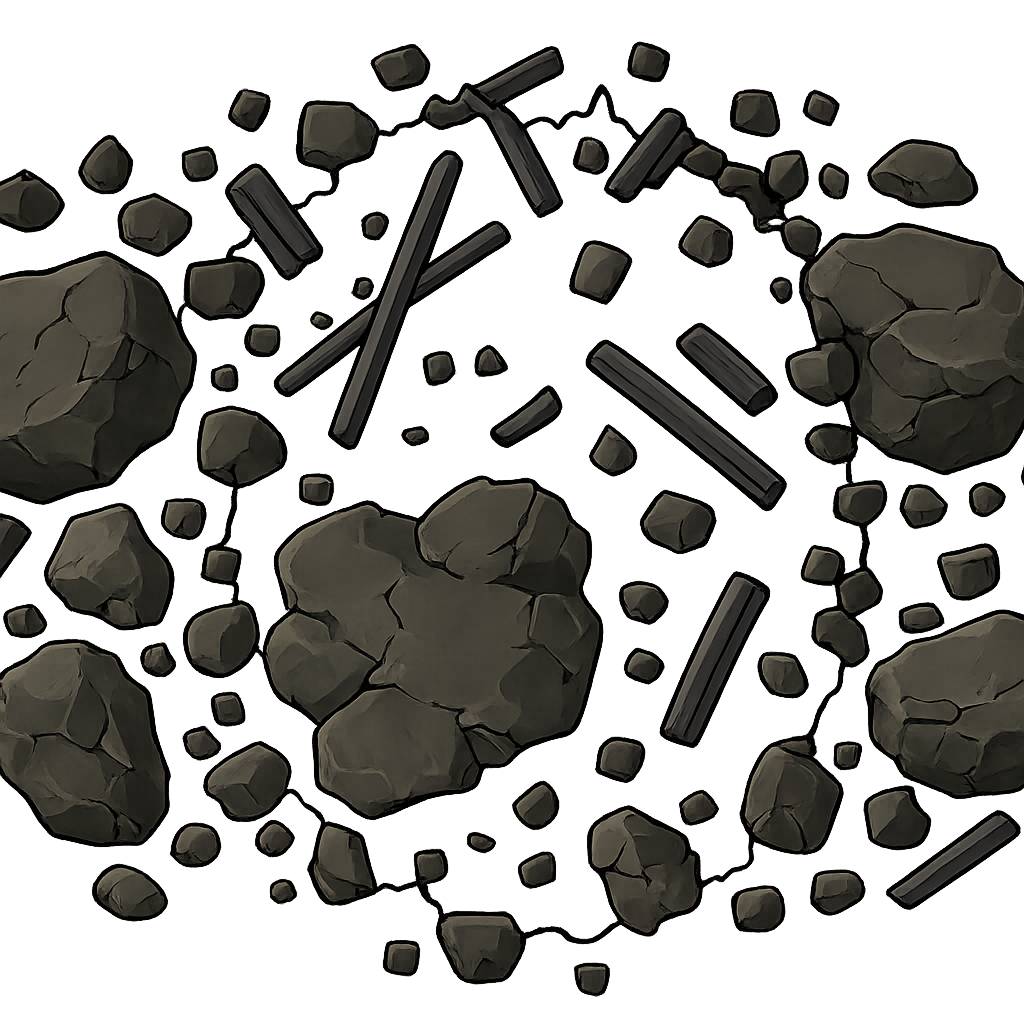
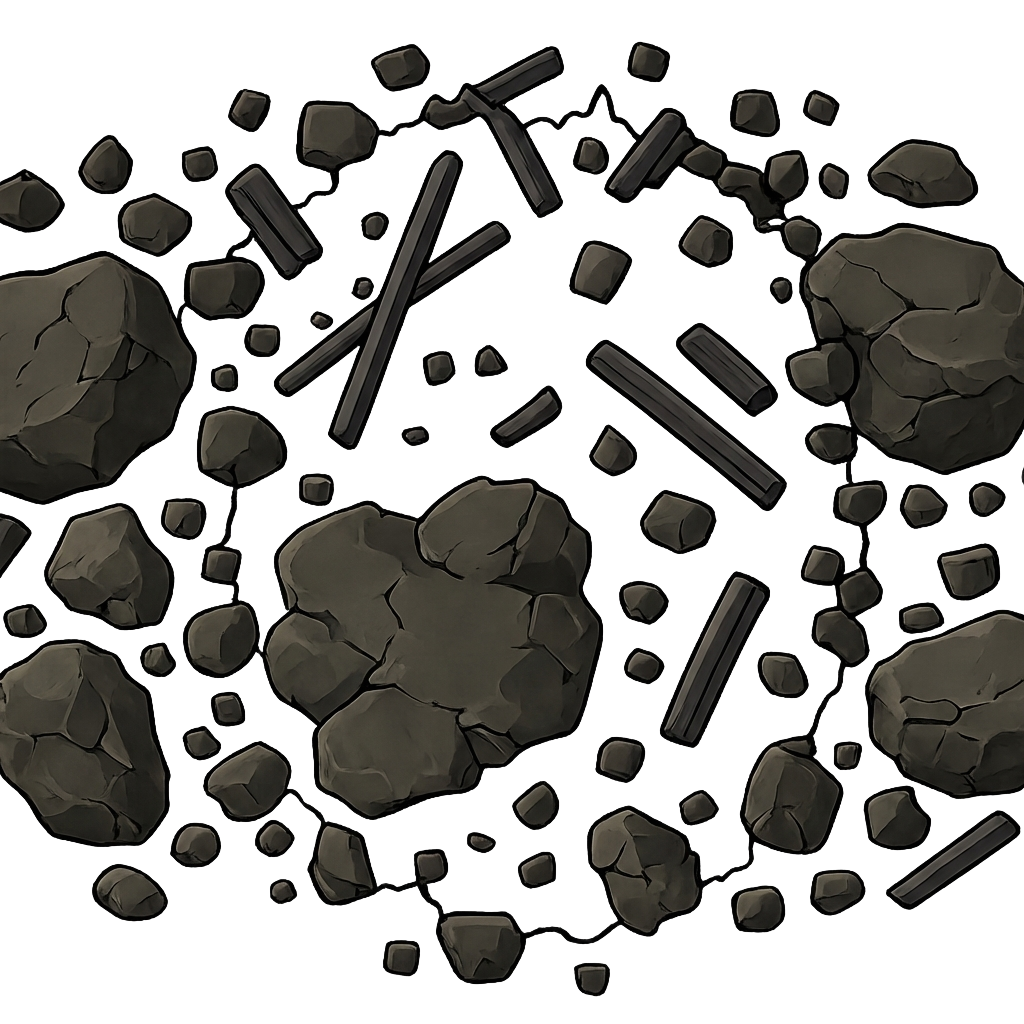
feat(terrain-editor): fix rubble truncation + 3 new dead marines
- rubble-edge-1.png: regenerated with generous margins (was truncated at edges)
- scatter-dead-marine-2: Dark Angels, face-down, chainsword nearby
- scatter-dead-marine-3: Blood Angels, on back, power fist raised
- scatter-dead-marine-4: Deathwing TERMINATOR, massive tactical dreadnought armor

diff --git a/packages/ui/public/mockups/terrain-experiments/v0.16/js/entities/core.js b/packages/ui/public/mockups/terrain-experiments/v0.16/js/entities/core.js
@@ -94,7 +94,7 @@ Editor.Core = {
     const thumbs = {
       tRuinsFloor: ['layer-bottom-aligned.png','layer-bottom-v2.png','layer-bottom-v3.png','layer-bottom-v4.png','layer-bottom-v5.png','t10-layer-bottom.png','layer-bottom-aligned-2x1.png','layer-bottom-aligned-4x3.png','layer-bottom-v2-2x1.png','layer-bottom-v2-4x3.png','layer-bottom-v3-2x1.png','layer-bottom-v3-4x3.png','t10-layer-bottom-2x1.png','t10-layer-bottom-4x3.png','openai-ruin-2.png','openai-ruin-1.png','openai-ruin-ushape.png'],
       tRuinsTop: ['layer-top-aligned.png','layer-top-v2.png','layer-top-v3.png','layer-top-v4.png','layer-top-v5.png','t10-layer-top.png','wall-l-wall-large.png','wall-l-wall-small.png','wall-u-wall.png'],
-      tScatter: ['scatter-layer.png','scatter-v2.png','scatter-v3.png','scatter-v4.png','scatter-v5.png','scatter-v6.png','openai-scatter.png','rubble-edge-1.png','rubble-edge-2.png','rubble-edge-3.png','rubble-edge-4.png','scatter-vehicle-leman-russ.png','scatter-vehicle-rhino.png','scatter-vehicle-dreadnought.png','scatter-vehicle-chimera.png','scatter-vehicle-predator.png','scatter-ork-trukk.png','scatter-tau-devilfish.png','scatter-eldar-wave-serpent.png','scatter-necron-ghost-ark.png','scatter-chaos-rhino.png','scatter-dead-marine.png','scatter-dead-ork-pile.png','scatter-dead-tau-firewarrior.png','scatter-dead-tyranid.png','scatter-dead-guardsmen-pile.png']
+      tScatter: ['scatter-layer.png','scatter-v2.png','scatter-v3.png','scatter-v4.png','scatter-v5.png','scatter-v6.png','openai-scatter.png','rubble-edge-1.png','rubble-edge-2.png','rubble-edge-3.png','rubble-edge-4.png','scatter-vehicle-leman-russ.png','scatter-vehicle-rhino.png','scatter-vehicle-dreadnought.png','scatter-vehicle-chimera.png','scatter-vehicle-predator.png','scatter-ork-trukk.png','scatter-tau-devilfish.png','scatter-eldar-wave-serpent.png','scatter-necron-ghost-ark.png','scatter-chaos-rhino.png','scatter-dead-marine.png','scatter-dead-marine-2.png','scatter-dead-marine-3.png','scatter-dead-marine-4.png','scatter-dead-ork-pile.png','scatter-dead-tau-firewarrior.png','scatter-dead-tyranid.png','scatter-dead-guardsmen-pile.png']
     };
     const base = this.spriteBasePath;
     Object.entries(thumbs).forEach(([id, files]) => {
@@ -110,7 +110,7 @@ Editor.Core = {
 
   // ── Layer name → z-index mapping ──
   layerIndex(layerName) {
-    const order = ['lightLayer','spriteFloor','spriteTop','svgRuins','svgScatter','objectiveRings','objectiveHexes','modelLayer','smokeLayer'];
+    const order = ['lightLayer','spriteFloor','spriteTop','svgRuins','svgScatter','objectiveRings','objectiveHexes','modelLayer'];
     const idx = order.indexOf(layerName);
     return idx >= 0 ? idx : -1;
   },
